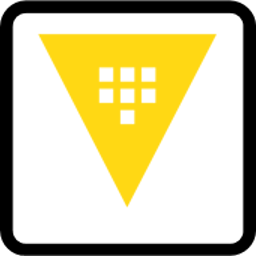
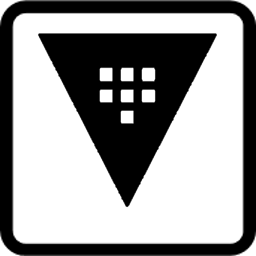
ubuntu compabiliteit

Changed region(s): [[0.125, 0.125, 0.8438, 0.8125]]

diff --git a/ROADMAP.md b/ROADMAP.md
@@ -20,5 +20,7 @@ Naast installatie en configuratie zijn ook diensten beschikbaar voor het opslaan
 
 
 
-## Export en Import van secrets
+**Export en Import van secrets**
 De dienst export_secrets vanaf een secret engine naar een json bestand en import_secrets voor vice-versa, dient meer robuust gemaakt te worden zodat deze productiegereed is.<br/>
+**PKI certificaten**
+In de Vault kunnen PKI certificaten worden opgeslagen en uitgegeven.

diff --git a/CHANGELOG.md b/CHANGELOG.md
@@ -1,0 +1,3 @@
+# Changelog
+
+2024-02-05 icon gewijzigd, Ubuntu compabiliteit toegevoegd
